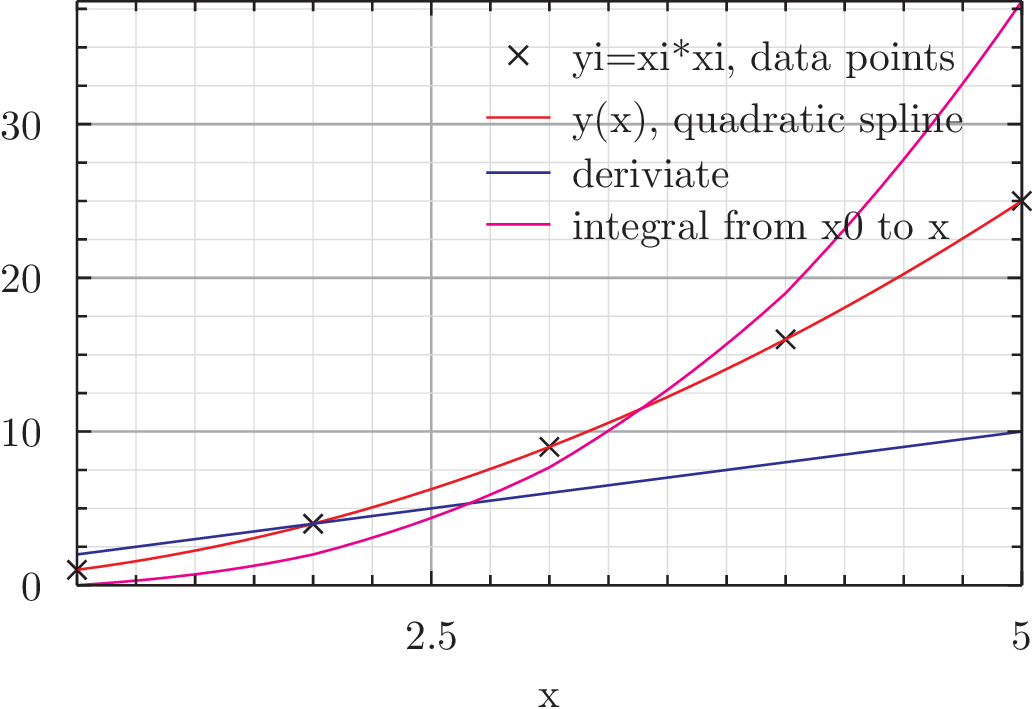
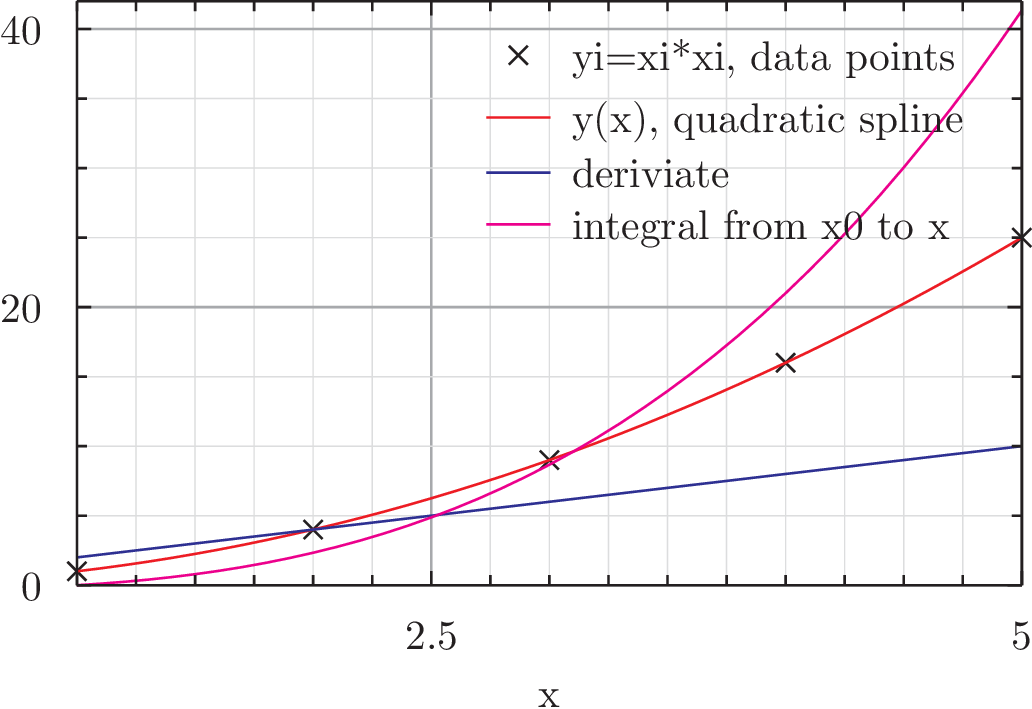
did spline part B

diff --git a/homework/splines/B/qspline.cs b/homework/splines/B/qspline.cs
@@ -80,7 +80,7 @@ public class qspline {
 		return i; 
 	}
 	double partint(int i, double z){
-		return (z-x[i])/6*(2*c[i]*Pow(z,2)-4*c[i]*z*x[i]+2*c[i]*Pow(x[i],2)+2*b[i]*(z-x[i])+6*y[i]);
+		return (z-x[i])/6*(2*c[i]*Pow(z,2)-4*c[i]*z*x[i]+2*c[i]*Pow(x[i],2)+3*b[i]*(z-x[i])+6*y[i]);
 	}
 
 }
